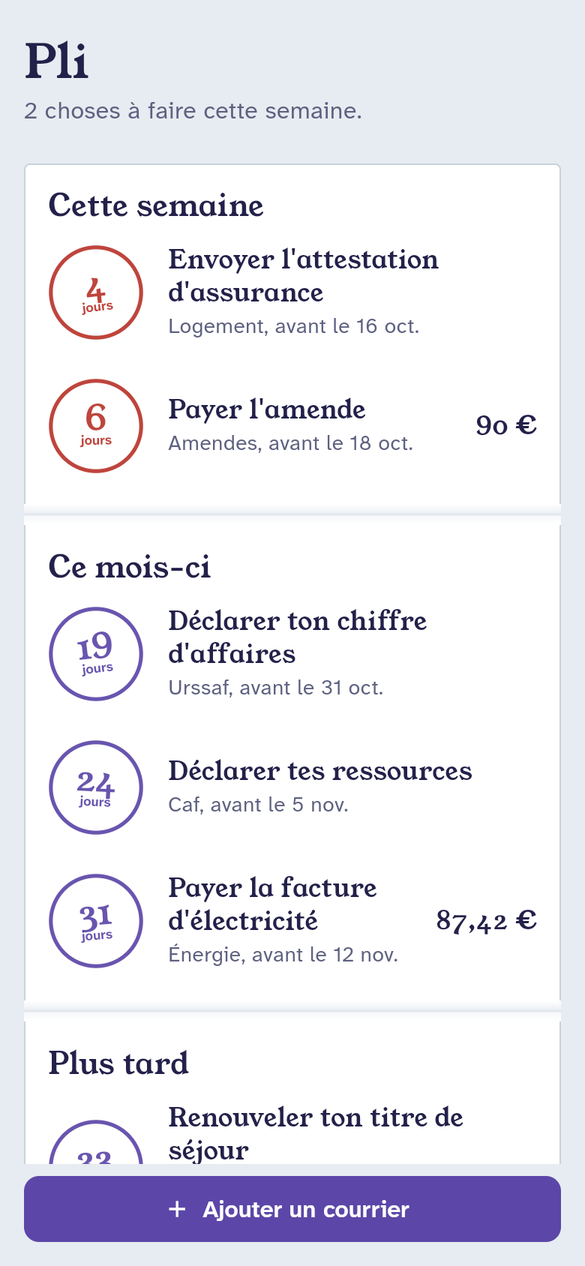
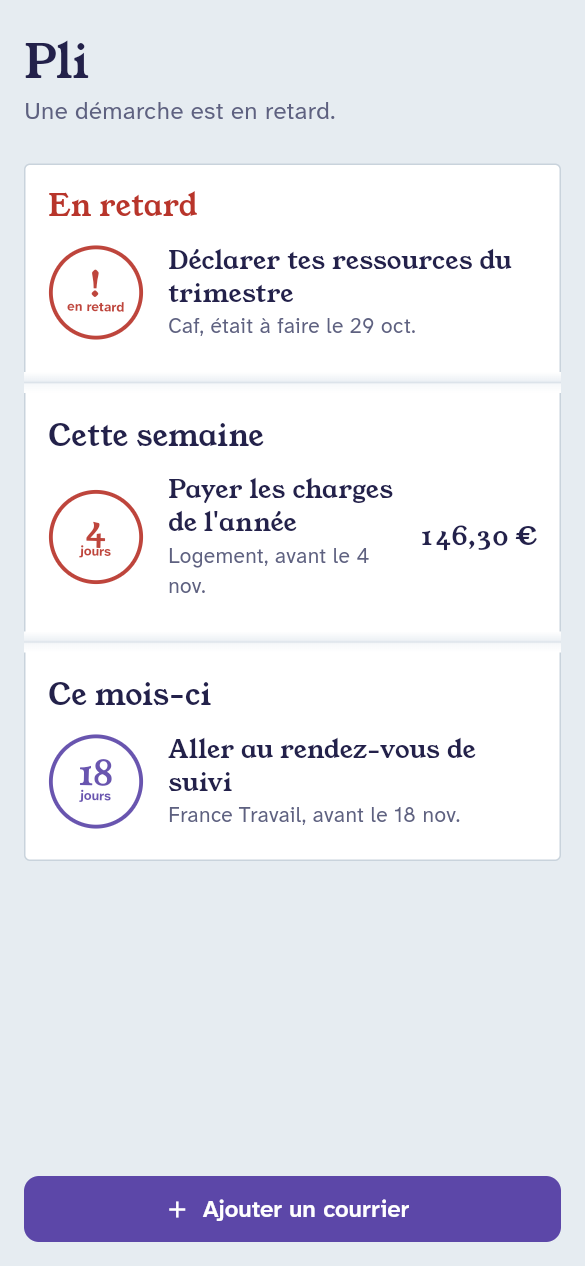
Add a web demo mode and deploy it to Vercel
PLI_DEMO=true runs the app without Firebase or the backend: an in-memory
store prefilled with one late, one this-week and one this-month deadline,
and a reader that answers the three sample letters only. Live at
https://pli-demo.vercel.app.

diff --git a/app/lib/demo/depot_memoire.dart b/app/lib/demo/depot_memoire.dart
@@ -1,0 +1,111 @@
+import 'dart:async';
+
+import '../modeles/echeance.dart';
+import '../services/depot_echeances.dart';
+
+/// Deadlines kept in memory, ordered by date like DepotFirestore. A reload starts over: demo only.
+class DepotMemoire implements DepotEcheances {
+  DepotMemoire([List<Echeance> depart = const []]) {
+    for (final e in depart) {
+      _ranger(e, fait: e.fait);
+    }
+  }
+
+  /// Three made-up deadlines, one per home section: late, this week, this month.
+  factory DepotMemoire.demo(DateTime aujourdhui) {
+    DateTime dans(int jours) => DateTime(aujourdhui.year, aujourdhui.month, aujourdhui.day + jours);
+    return DepotMemoire([
+      Echeance(
+        organisme: 'caf',
+        organismeNom: 'Caf de la Gironde',
+        action: 'declarer',
+        titre: 'Déclarer tes ressources du trimestre',
+        dateLimite: dans(-2),
+        montant: null,
+        resume: 'Déclare tes ressources des trois derniers mois sur caf.fr pour garder ta prime d\'activité.',
+        aVerifier: false,
+        fait: false,
+        source: 'claude',
+      ),
+      Echeance(
+        organisme: 'bailleur',
+        organismeNom: 'Habitat Gironde',
+        action: 'payer',
+        titre: 'Payer les charges de l\'année',
+        dateLimite: dans(4),
+        montant: 146.30,
+        resume: 'Paie 146,30 € de charges en plus pour l\'année, par virement ou sur ton espace locataire.',
+        aVerifier: false,
+        fait: false,
+        source: 'claude',
+      ),
+      Echeance(
+        organisme: 'france_travail',
+        organismeNom: 'France Travail',
+        action: 'se_presenter',
+        titre: 'Aller au rendez-vous de suivi',
+        dateLimite: dans(18),
+        montant: null,
+        resume: 'Présente-toi à l\'agence de Mérignac avec ta pièce d\'identité et ton CV à jour.',
+        aVerifier: false,
+        fait: false,
+        source: 'claude',
+      ),
+    ]);
+  }
+
+  final _echeances = <String, Echeance>{};
+  final _flux = StreamController<List<Echeance>>.broadcast();
+  var _suivant = 0;
+
+  @override
+  Stream<List<Echeance>> surveiller() => Stream.multi((abonne) {
+    abonne.add(_triees());
+    final abonnement = _flux.stream.listen(abonne.add);
+    abonne.onCancel = abonnement.cancel;
+  });
+
+  /// Like the Firestore create, a new deadline always starts not done.
+  @override
+  Future<void> ajouter(Echeance echeance) async {
+    _ranger(echeance, fait: false);
+    _publier();
+  }
+
+  @override
+  Future<void> marquerFait(String id, bool fait) async {
+    final e = _echeances[id];
+    if (e == null) return;
+    _echeances[id] = _avec(e, id: id, fait: fait);
+    _publier();
+  }
+
+  @override
+  Future<void> supprimer(String id) async {
+    _echeances.remove(id);
+    _publier();
+  }
+
+  void _ranger(Echeance e, {required bool fait}) {
+    final id = 'demo-${_suivant++}';
+    _echeances[id] = _avec(e, id: id, fait: fait);
+  }
+
+  List<Echeance> _triees() => _echeances.values.toList()..sort((a, b) => a.dateLimite.compareTo(b.dateLimite));
+
+  void _publier() => _flux.add(_triees());
+}
+
+Echeance _avec(Echeance e, {required String id, required bool fait}) => Echeance(
+  id: id,
+  organisme: e.organisme,
+  organismeNom: e.organismeNom,
+  action: e.action,
+  titre: e.titre,
+  dateLimite: e.dateLimite,
+  montant: e.montant,
+  resume: e.resume,
+  aVerifier: e.aVerifier,
+  fait: fait,
+  source: e.source,
+);

diff --git a/app/test/demo_test.dart b/app/test/demo_test.dart
@@ -1,0 +1,79 @@
+import 'dart:typed_data';
+
+import 'package:flutter_test/flutter_test.dart';
+import 'package:pli/demo/depot_memoire.dart';
+import 'package:pli/demo/lecteur_demo.dart';
+import 'package:pli/exemples.dart';
+import 'package:pli/outils/dates.dart';
+import 'package:pli/services/lecteur_courrier.dart';
+
+import 'faux.dart';
+
+void main() {
+  group('DepotMemoire', () {
+    test('lists deadlines by date and gives each an id', () async {
+      final depot = DepotMemoire([
+        echeance(titre: 'B', dateLimite: DateTime(2026, 11, 2)),
+        echeance(titre: 'A', dateLimite: DateTime(2026, 10, 20)),
+      ]);
+      final liste = await depot.surveiller().first;
+      expect([for (final e in liste) e.titre], ['A', 'B']);
+      expect({for (final e in liste) e.id}, hasLength(2));
+    });
+
+    test('an added deadline shows up in order, not done', () async {
+      final depot = DepotMemoire([echeance(titre: 'Plus tard', dateLimite: DateTime(2026, 12, 1))]);
+      final listes = depot.surveiller();
+      expect(
+        listes,
+        emitsInOrder([
+          hasLength(1),
+          predicate<List<dynamic>>((l) => l.first.titre == 'Avant' && l.first.fait == false),
+        ]),
+      );
+      await Future<void>.delayed(Duration.zero);
+      await depot.ajouter(echeance(titre: 'Avant', dateLimite: DateTime(2026, 10, 20), fait: true));
+    });
+
+    test('marks done and deletes', () async {
+      final depot = DepotMemoire([echeance(titre: 'A'), echeance(titre: 'B')]);
+      final [a, b] = await depot.surveiller().first;
+      await depot.marquerFait(a.id!, true);
+      await depot.supprimer(b.id!);
+      final liste = await depot.surveiller().first;
+      expect(liste.single.titre, 'A');
+      expect(liste.single.fait, isTrue);
+    });
+
+    test('the demo fills the late, this week and this month sections', () async {
+      final liste = await DepotMemoire.demo(aujourdhui).surveiller().first;
+      expect(
+        [for (final e in liste) horizonDe(joursRestants(e.dateLimite, aujourdhui))],
+        [Horizon.enRetard, Horizon.cetteSemaine, Horizon.ceMois],
+      );
+    });
+  });
+
+  group('LecteurDemo', () {
+    final lecteur = LecteurDemo(delai: Duration.zero);
+
+    test('reads every sample letter', () async {
+      for (final exemple in exemples) {
+        final lecture = await lecteur.lire(CourrierTexte(exemple.texte));
+        expect(lecture.aUneEcheance, isTrue, reason: exemple.titre);
+      }
+      final amende = await lecteur.lire(CourrierTexte(exemples.first.texte));
+      expect(amende.dateLimite, DateTime(2026, 10, 18));
+      expect(amende.montant, 90);
+    });
+
+    test('refuses any other text, photo or PDF', () async {
+      final refus = throwsA(
+        isA<LectureImpossible>().having((e) => e.message, 'message', 'Mode démo : essaie un des courriers d\'exemple.'),
+      );
+      await expectLater(lecteur.lire(const CourrierTexte('Un autre courrier')), refus);
+      await expectLater(lecteur.lire(CourrierFichier(mediaType: 'image/jpeg', octets: Uint8List(4))), refus);
+      await expectLater(lecteur.lire(CourrierFichier(mediaType: 'application/pdf', octets: Uint8List(4))), refus);
+    });
+  });
+}

diff --git a/app/lib/demo/lecteur_demo.dart b/app/lib/demo/lecteur_demo.dart
@@ -1,0 +1,68 @@
+import '../exemples.dart';
+import '../modeles/lecture.dart';
+import '../services/lecteur_courrier.dart';
+
+/// Reads the sample letters only, with the answers the Claude extractor gives on them (eval cases dev_04, dev_06
+/// and dev_03). Anything else is refused: the demo has no backend.
+class LecteurDemo implements LecteurCourrier {
+  LecteurDemo({this.delai = const Duration(seconds: 1)});
+
+  final Duration delai;
+
+  final _lectures = {for (final e in exemples) e.texte.trim(): _parTitre[e.titre]!};
+
+  @override
+  Future<Lecture> lire(CourrierAEnvoyer courrier) async {
+    final lecture = switch (courrier) {
+      CourrierTexte(:final texte) => _lectures[texte.trim()],
+      CourrierFichier() => null,
+    };
+    if (lecture == null) throw const LectureImpossible('Mode démo : essaie un des courriers d\'exemple.');
+    await Future<void>.delayed(delai);
+    return lecture;
+  }
+}
+
+/// Keyed by the sample's title in exemples.dart.
+final _parTitre = {
+  'Une amende': Lecture(
+    organisme: 'antai',
+    organismeNom: 'Agence nationale de traitement automatisé des infractions',
+    action: 'payer',
+    titre: 'Payer l\'amende pour excès de vitesse',
+    dateLimite: DateTime(2026, 10, 18),
+    montant: 90,
+    resume: 'Paie 90 € avant le 18 octobre pour le tarif minoré. Après, l\'amende passe à 135 €, puis à 375 €.',
+    aVerifier: false,
+    raisonVerification: null,
+    source: 'claude',
+    modele: 'claude-opus-5-5',
+  ),
+  'Une facture d\'électricité': Lecture(
+    organisme: 'energie',
+    organismeNom: 'Voltéa Énergie',
+    action: 'payer',
+    titre: 'Payer la facture d\'électricité',
+    // « avant le 12/11 »: the last day to pay is the 11th.
+    dateLimite: DateTime(2026, 11, 11),
+    montant: 87.42,
+    resume: 'Paie 87,42 € avant le 12 novembre, par carte sur ton espace client ou par virement.',
+    aVerifier: false,
+    raisonVerification: null,
+    source: 'claude',
+    modele: 'claude-opus-5-5',
+  ),
+  'Un renouvellement de droits': Lecture(
+    organisme: 'assurance_maladie',
+    organismeNom: 'Caisse primaire d\'assurance maladie de Seine-Saint-Denis',
+    action: 'renouveler',
+    titre: 'Renouveler la Complémentaire santé solidaire',
+    dateLimite: DateTime(2026, 10, 31),
+    montant: null,
+    resume: 'Ton droit s\'arrête le 31 décembre. Refais ta demande sur ton compte ameli d\'ici le 31 octobre.',
+    aVerifier: false,
+    raisonVerification: null,
+    source: 'claude',
+    modele: 'claude-opus-5-5',
+  ),
+};

diff --git a/app/lib/ecrans/ajout.dart b/app/lib/ecrans/ajout.dart
@@ -3,6 +3,7 @@ import 'package:flutter/foundation.dart';
 import 'package:flutter/material.dart';
 import 'package:image_picker/image_picker.dart';
 
+import '../config.dart';
 import '../exemples.dart';
 import '../services/depot_echeances.dart';
 import '../services/lecteur_courrier.dart';
@@ -184,6 +185,15 @@ class _EcranAjoutState extends State<EcranAjout> {
                 ),
               ),
             ),
+            if (Config.demo)
+              const Padding(
+                padding: EdgeInsets.fromLTRB(Espaces.m, Espaces.s, Espaces.m, Espaces.m),
+                child: Text(
+                  'Démo : la lecture réelle passe par le backend avec Claude.',
+                  style: Textes.discret,
+                  textAlign: TextAlign.center,
+                ),
+              ),
           ],
         ),
       ),

diff --git a/app/lib/main.dart b/app/lib/main.dart
@@ -6,6 +6,8 @@ import 'package:intl/date_symbol_data_local.dart';
 
 import 'app.dart';
 import 'config.dart';
+import 'demo/depot_memoire.dart';
+import 'demo/lecteur_demo.dart';
 import 'services/depot_echeances.dart';
 import 'services/lecteur_courrier.dart';
 import 'services/session.dart';
@@ -13,6 +15,11 @@ import 'services/session.dart';
 Future<void> main() async {
   WidgetsFlutterBinding.ensureInitialized();
   await initializeDateFormatting('fr');
+  if (Config.demo) {
+    runApp(PliApp(depot: DepotMemoire.demo(DateTime.now()), lecteur: LecteurDemo()));
+    return;
+  }
+
   await Firebase.initializeApp(options: Config.optionsFirebase);
   if (Config.emulateurs) {
     await FirebaseAuth.instance.useAuthEmulator(Config.hoteEmulateurs, 9099);

diff --git a/app/lib/config.dart b/app/lib/config.dart
@@ -5,6 +5,9 @@ import 'package:firebase_core/firebase_core.dart';
 abstract final class Config {
   static const emulateurs = bool.fromEnvironment('PLI_EMULATEURS');
 
+  /// Public web demo: no Firebase, no backend. Deadlines live in memory and only the sample letters are read.
+  static const demo = bool.fromEnvironment('PLI_DEMO');
+
   /// 127.0.0.1 for web and iOS simulator, 10.0.2.2 for the Android emulator.
   static const hoteEmulateurs = String.fromEnvironment('PLI_HOTE_EMULATEURS', defaultValue: '127.0.0.1');
 

diff --git a/HANDOFF.md b/HANDOFF.md
@@ -4,10 +4,19 @@
 Prototype on a Flutter, Python, Firestore, Google Cloud, GitLab CI and Claude Code stack, built for a job
 application to Buddy (full-stack & AI work-study role).
 
-## State (2026-10-12)
+## State (2026-11-01)
+- **Web demo live: https://pli-demo.vercel.app** (Vercel project `pli-demo`, branch
+  `style-buddy-simplification`). Flag `PLI_DEMO=true`: no Firebase, no backend. `app/lib/demo/` holds an in-memory store (3 made-up deadlines: late,
+  this week, this month) and a reader that answers the 3 sample letters only. App: 33 tests, analyzer clean;
+  every demo screen checked at 390 px. The bill reads 11 Nov (« avant le 12 » = X−1, the rule of
+  `feat/eval-convention-sonnet-new-letters`).
+- **Buddy restyle applied (2026-11-01)**: `pli-style-buddy.patch` (Baloo 2, coral, cards, pills, lilac « À FAIRE EN
+  PREMIER » card; postmark, folded sheet and stamp animation removed; `messages.parse`; simpler rate limiter).
+  Its Dart had never compiled: fixed a pill-row overflow on large text and an ambiguous test finder.
+  The Claude eval was not rerun after the `messages.parse` change (paid API, no go).
 - **Works locally, end to end**: emulators + backend + Flutter web. Read a sample letter, check it, save it
   to Firestore, and see it on the home screen. Verified with Playwright screenshots (`docs/captures/`).
-- Backend: 62 pytest, ruff clean. Firestore rules: 27 tests on the emulator. App: 27 tests, analyzer clean.
+- Backend: 62 pytest, ruff clean. Firestore rules: 27 tests on the emulator. App: 33 tests, analyzer clean.
 - Independent review (reviewer agent) done on 2026-10-12: every finding verified in the code, then fixed with a
   test (list in README « What review caught »).
 - Eval: the rule extractor scores 9/10 on `dev` and 6/14 on `test`, with 1 silent error (an Urssaf reminder).
@@ -20,8 +29,7 @@ application to Buddy (full-stack & AI work-study role).
 1. With an Anthropic key: `cd backend && uv run python -m evals.run --extracteur claude --split test` (~14 calls).
    Paste the scores into the README table, then compare `PLI_EFFORT=low` against `medium`.
 2. Mirror to GitLab so `.gitlab-ci.yml` runs too (the stack Buddy uses).
-3. Retake `docs/captures/` after the Buddy-style restyle (the PNGs still show the old postmark design).
-4. Record the 30 s motion video from the real screens.
+3. Record the 30 s motion video from the real screens.
 
 ## À confirmer / open
 - npm audit: 17 findings, all in dev tooling (firebase-tools, emulator test libs). The "fixes" are downgrades

diff --git a/README.md b/README.md
@@ -6,8 +6,13 @@ much. You check it, and it goes into a list sorted by urgency.
 
 Flutter app · Python backend on Cloud Run · Firestore · Claude for reading · GitLab CI.
 
+**Live demo: [pli-demo.vercel.app](https://pli-demo.vercel.app).** It is built with `--dart-define=PLI_DEMO=true`:
+no Firebase and no backend, deadlines stay in memory, and only the three sample letters are read, with the
+answers the Claude extractor gives on them.
+
 <p>
   <img src="docs/captures/accueil.png" width="230" alt="Home: deadlines grouped by horizon">
+  <img src="docs/captures/ajout.png" width="230" alt="Adding a letter: import, paste or try a sample">
   <img src="docs/captures/verification.png" width="230" alt="Checking what was read before saving">
   <img src="docs/captures/accueil-vide.png" width="230" alt="Empty state">
 </p>
@@ -110,7 +115,7 @@ Without `ANTHROPIC_API_KEY` the backend uses the rule extractor. The add screen 
 |---|---|---|
 | Backend | `uv run ruff check . && uv run ruff format --check . && uv run pytest` | 62 tests |
 | Firestore rules | `npm test` (emulator) | 27 tests |
-| App | `dart format --set-exit-if-changed lib test && flutter analyze && flutter test` | 27 tests |
+| App | `dart format --set-exit-if-changed lib test && flutter analyze && flutter test` | 33 tests |
 | Eval | `uv run python -m evals.run --extracteur regle --split test` | see above |
 
 [.gitlab-ci.yml](.gitlab-ci.yml) runs each part when it changes, plus GitLab secret detection. The paid Claude

diff --git a/CLAUDE.md b/CLAUDE.md
@@ -33,6 +33,10 @@ cd app && flutter run -d chrome --web-port 5173 \
   --dart-define=PLI_EMULATEURS=true --dart-define=PLI_API_URL=http://127.0.0.1:8080
 # stop a server by its port, never with pkill -f
 fuser -k 8080/tcp
+
+# public web demo (no Firebase, no backend): build locally, Vercel has no Flutter. Project pli-demo.
+cd app && flutter build web --release --dart-define=PLI_DEMO=true   # web/vercel.json lands in build/web
+cd app/build/web && npx vercel link --yes --project pli-demo && rm -f .env.local && npx vercel deploy --prod
 ```
 On web, the Firebase emulator banner covers the
 bottom button: remove `.firebase-emulator-warning` when scripting screenshots.
